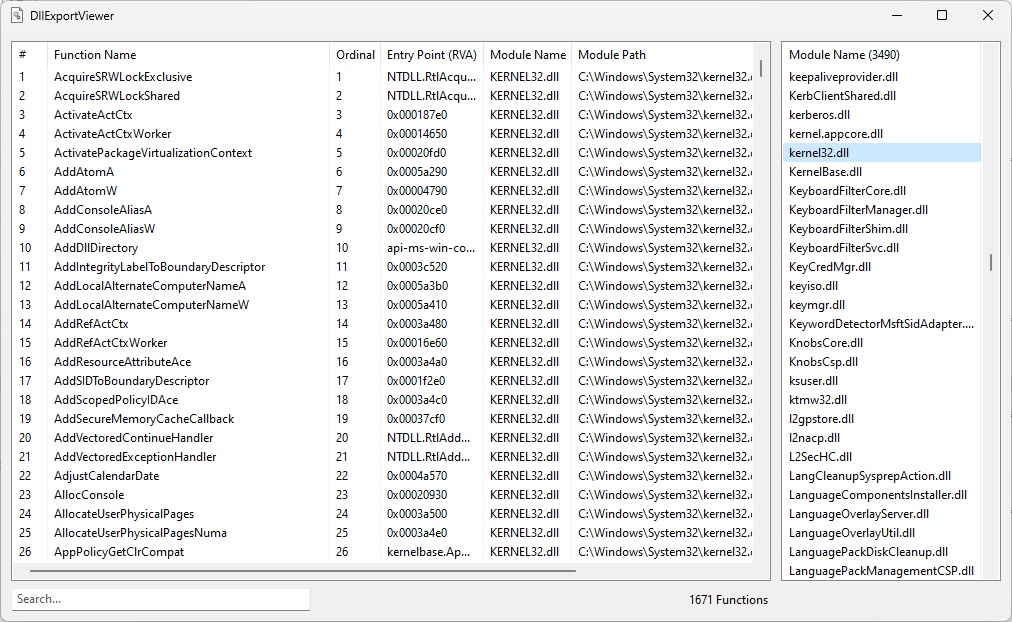
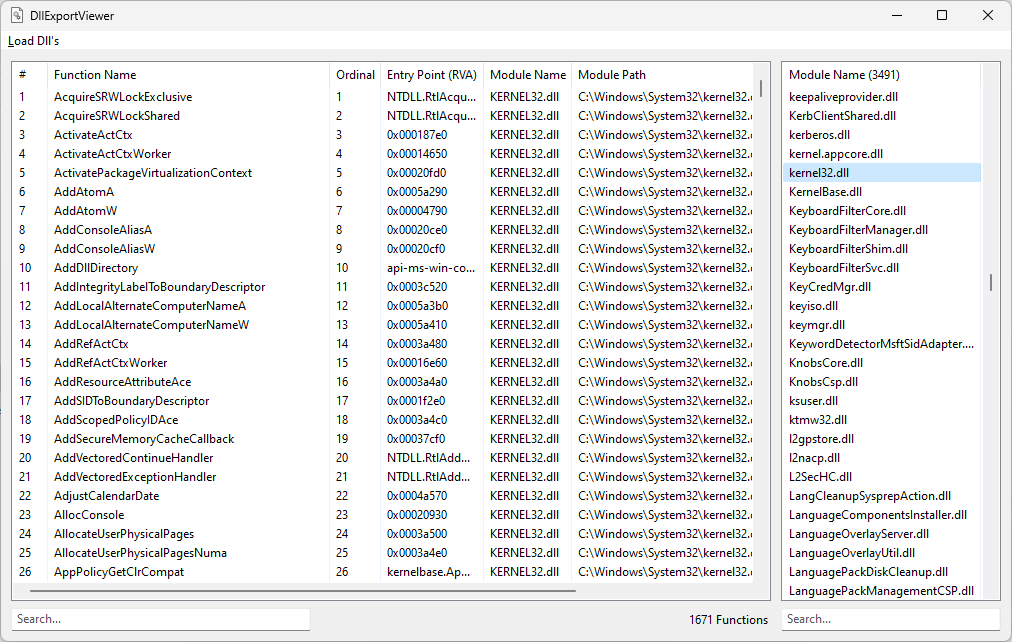
Update
- added menu
- added menu dark mode
- added dll common lists
- added dll folder search
- added function web search (learn.microsoft.com)
- added select all context for dlls

Changed region(s): [[0.0, 0.0, 0.9802, 1.0], [0.3063, 0.336, 0.337, 0.3971]]

diff --git a/README.md b/README.md
@@ -1,5 +1,5 @@
 # AHK Dll Export Viewer
-[![AHK](https://img.shields.io/badge/ahk-2.0--beta.15-C3D69B.svg?style=flat-square)]()
+[![AHK](https://img.shields.io/badge/ahk-2.0--rc.2-C3D69B.svg?style=flat-square)]()
 [![OS](https://img.shields.io/badge/os-windows-C3D69B.svg?style=flat-square)]()
 [![Releases](https://img.shields.io/github/downloads/jNizM/DllExport/total.svg?style=flat-square&color=95B3D7)](https://github.com/jNizM/DllExport/releases)
 
@@ -27,6 +27,7 @@ Displays a list of all exported functions for the specified Dll files.
 * [ImageDirectoryEntryToData](https://learn.microsoft.com/en-us/windows/win32/api/dbghelp/nf-dbghelp-imagedirectoryentrytodata)
 * [ImageRvaToVa](https://learn.microsoft.com/en-us/windows/win32/api/dbghelp/nf-dbghelp-imagervatova)
 * [PE Format Layout](https://drive.google.com/file/d/0B3_wGJkuWLytbnIxY1J5WUs4MEk/view)
+* [PE Format](https://learn.microsoft.com/en-us/windows/win32/debug/pe-format)
 
 
 ## Contributing
